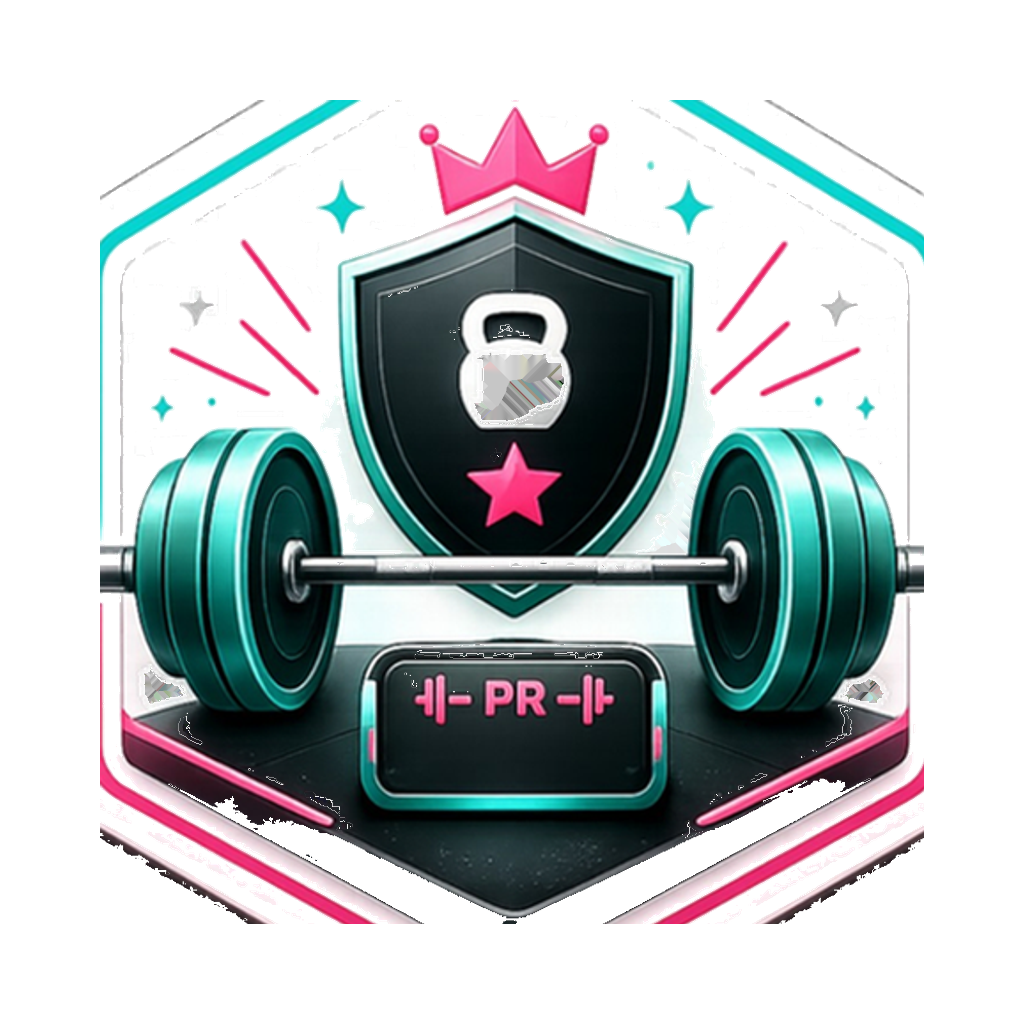
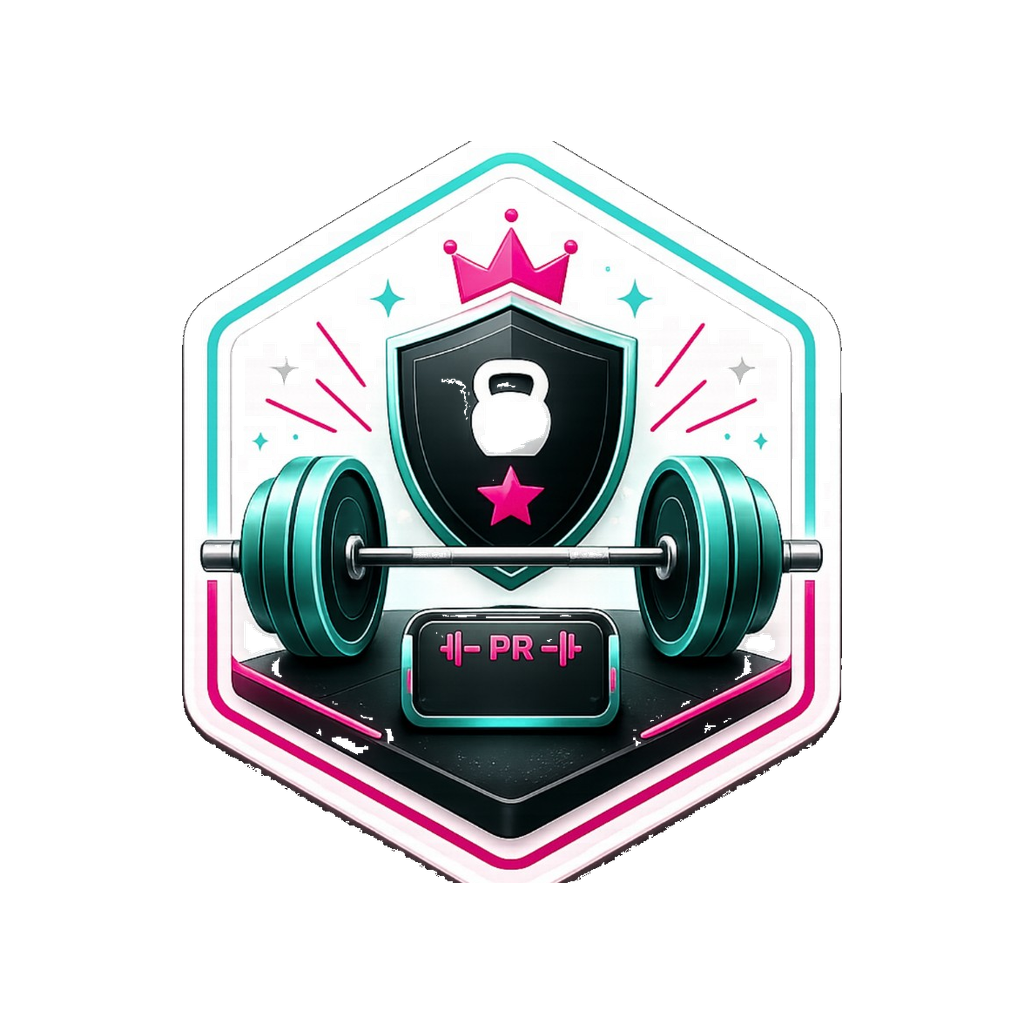
Update Tungvekter badge artwork with transparent background
Replace 11-tungvekter.png and bump badge cache version.

diff --git a/src/app/badgeAssets.ts b/src/app/badgeAssets.ts
@@ -1,5 +1,5 @@
 /** Felles badge-bilder (PNG 1024×1024, normalisert visuell størrelse). */
-export const BADGE_ASSET_VERSION = "20";
+export const BADGE_ASSET_VERSION = "21";
 
 export function badgeAssetUrl(path: string): string {
   const base = path.split("?")[0] || path;
